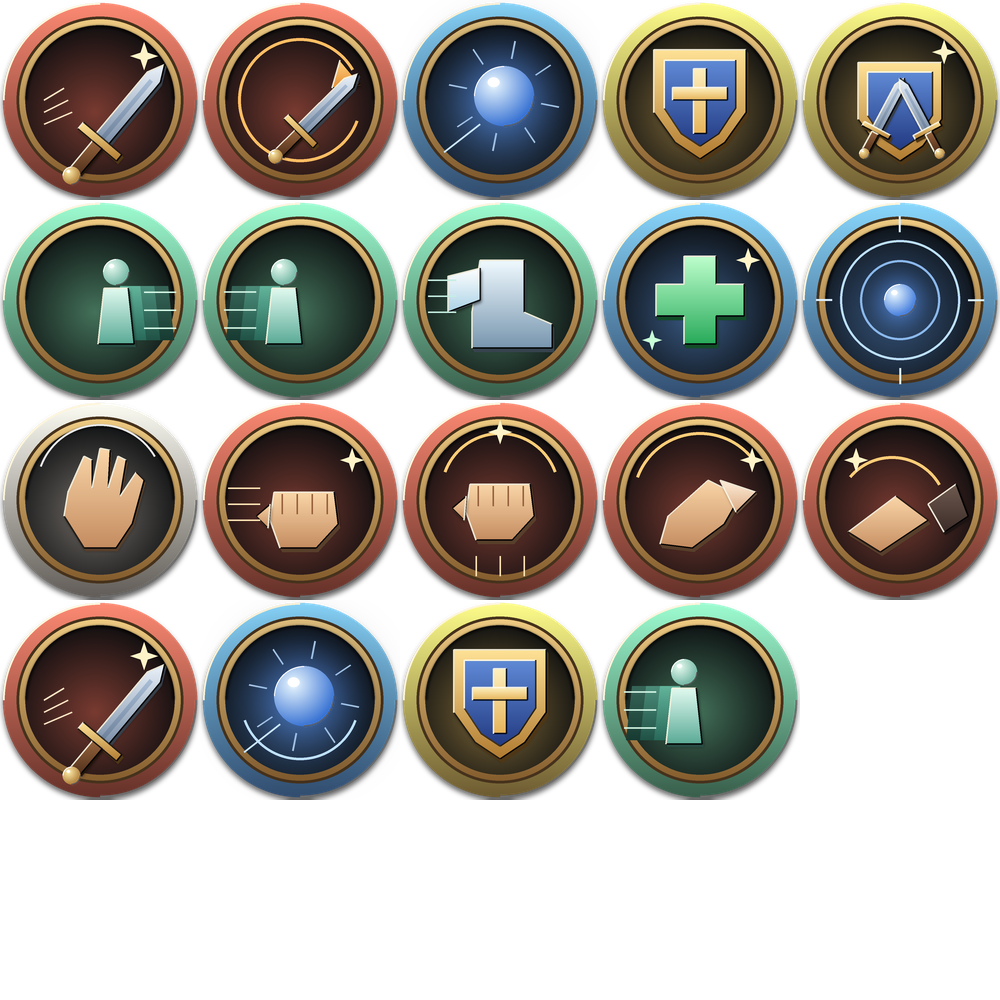
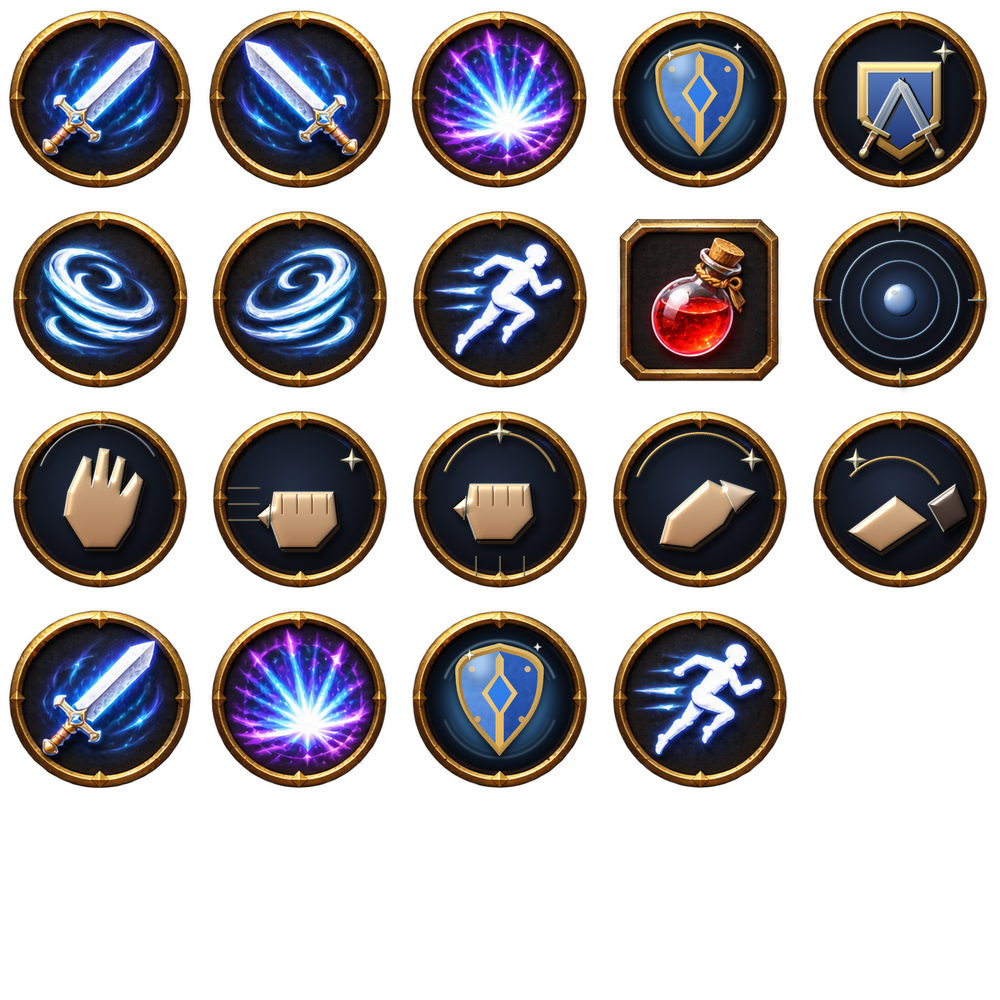
art: 스킬 아이콘 2.5D 원화 스타일로 통일(HUD 원화 재사용 + 높이맵 조명)
Claude-Session: https://claude.ai/code/session_012UBHYV5VTXizN9awrTGnEM

diff --git a/tools/skill-icon-gen.py b/tools/skill-icon-gen.py
@@ -2,7 +2,37 @@
 """마력숲 스킬 아이콘 시트(2.5D) 생성기. 5x5 칸 x 200px = 1000x1000.
 칸 순서는 client meadowArt.skillCell 과 같다. 외부 모델/자산 없이 직접 그린 오너 승인 UI 아이콘."""
 import math, sys
+import numpy as np
+from scipy import ndimage
 from PIL import Image, ImageDraw, ImageFilter, ImageChops
+
+def relief(im, height=20.0, soft=8, spec=.85):
+    """알파 경계에서 안쪽으로 볼록하게 솟는 높이맵 → 법선 → 좌상단 조명(난반사+정반사+림).
+    평면 도형을 돌출된 2.5D 금속/에나멜 조각처럼 보이게 한다."""
+    arr = np.asarray(im).astype(np.float32) / 255
+    a = arr[..., 3]
+    inside = a > .5
+    if not inside.any():
+        return im.copy()
+    d = ndimage.distance_transform_edt(inside)
+    h = 1 - np.exp(-d / max(1, soft))          # 가장자리 둥근 베벨
+    # 같은 층 안의 밝기 차이(그라데이션)도 약간 높이로 반영해 결을 살린다.
+    lum = arr[..., :3].mean(axis=2)
+    h = h * height + ndimage.gaussian_filter(lum, 2) * height * .18
+    h = ndimage.gaussian_filter(h, 1.6)
+    gy, gx = np.gradient(h)
+    n = np.dstack([-gx, -gy, np.ones_like(h)])
+    n /= np.linalg.norm(n, axis=2, keepdims=True)
+    L = np.array([-.55, -.62, .56]); L /= np.linalg.norm(L)
+    V = np.array([0, 0, 1.0])
+    H = (L + V); H /= np.linalg.norm(H)
+    diff = np.clip((n * L).sum(2), 0, 1)
+    specv = np.clip((n * H).sum(2), 0, 1) ** 38 * spec
+    rim = (1 - n[..., 2]) ** 2 * .25
+    ao = 1 - np.clip(ndimage.gaussian_filter((~inside).astype(np.float32), 6) * .55, 0, .5) * inside
+    rgb = arr[..., :3] * (.42 + .78 * diff[..., None]) * ao[..., None] + specv[..., None] + rim[..., None] * .35
+    out = np.dstack([np.clip(rgb, 0, 1), a])
+    return Image.fromarray((out * 255).astype(np.uint8), "RGBA")
 
 S = 800  # 칸당 작업 해상도(최종 200으로 줄임)
 U = S / 100.0
@@ -16,6 +46,9 @@ class Cell:
         self.tint = tint
         self.img = Image.new("RGBA", (S, S), (0, 0, 0, 0))
         self.build_medallion()
+        # [2.5D] 메달리온은 base, 그림(도형)은 별도 층에 그려 높이맵 조명을 입힌다.
+        self.base = self.img
+        self.img = Image.new("RGBA", (S, S), (0, 0, 0, 0))
 
     # ---------- 메달리온 ----------
     def build_medallion(self):
@@ -144,8 +177,16 @@ class Cell:
         d.polygon([(x, y - r), (x + r * .25, y - r * .25), (x + r, y), (x + r * .25, y + r * .25),
                    (x, y + r), (x - r * .25, y + r * .25), (x - r, y), (x - r * .25, y - r * .25)], fill=col)
 
-    def out(self):
-        return self.img.resize((200, 200), Image.LANCZOS)
+    def out(self, glyph_only=False):
+        glyph = relief(self.img, height=26.0, soft=10)
+        # 그림자: 오른쪽 아래로 떨어지는 부드러운 그림자(떠 있는 느낌)
+        a = np.asarray(self.img)[..., 3].astype(np.float32) / 255
+        sh = ndimage.gaussian_filter(ndimage.shift(a, (22, 14), order=0), 12) * .62
+        shadow = np.zeros((S, S, 4), np.uint8); shadow[..., 3] = (sh * 255).clip(0, 255).astype(np.uint8)
+        out = Image.new("RGBA", (S, S), (0, 0, 0, 0)) if glyph_only else relief(self.base, height=14.0, soft=6, spec=.55)
+        out.alpha_composite(Image.fromarray(shadow, "RGBA"))
+        out.alpha_composite(glyph)
+        return out.resize((200, 200), Image.LANCZOS)
 
 STEEL = ((235, 242, 250), (120, 140, 165))
 GOLD = ((255, 226, 150), (176, 122, 48))
@@ -214,7 +255,7 @@ def cross_plus(c):
 # ---------- 아이콘 정의 ----------
 TINT = {"war": (196, 96, 80), "mag": (96, 150, 220), "def": (214, 176, 96), "mob": (110, 184, 146), "etc": (190, 180, 170)}
 
-def icon(i):
+def icon(i, glyph_only=False):
     k = {0: "war", 1: "war", 2: "mag", 3: "def", 4: "def", 5: "mob", 6: "mob", 7: "mob", 8: "mag", 9: "mag", 10: "etc",
          11: "war", 12: "war", 13: "war", 14: "war", 15: "war", 16: "mag", 17: "def", 18: "mob"}[i]
     c = Cell(TINT[k])
@@ -277,12 +318,42 @@ def icon(i):
         c.poly([(64, 52), (78, 42), (84, 58), (72, 66)], (110, 90, 80), (60, 44, 40), depth=3)
         c.arc((46, 56), 28, 220, 330, (255, 205, 120, 255), 3)
         c.spark(28, 30, 6)
-    return c.out()
+    return c.out(glyph_only)
+
+# [2.5D 원화 통일] 화면 HUD와 같은 오너 승인 원화 시트(illustrated-icons.png)의 칸을 그대로 재사용한다.
+# (x, y, 좌우반전) — 원화가 없는 스킬(맨손·응수·집중·인사)은 위 생성기에 높이맵 조명을 입혀 쓴다.
+PAINTED = {0: (0, 800, False), 15: (0, 800, False), 1: (0, 800, True),
+           2: (400, 600, False), 16: (400, 600, False),
+           3: (200, 800, False), 17: (200, 800, False),
+           5: (600, 600, True), 6: (600, 600, False),
+           7: (200, 600, False), 18: (200, 600, False), 8: (0, 400, False)}
+
+def painted(i, src):
+    x, y, flip = PAINTED[i]
+    cell = src.crop((x, y, x + 200, y + 200))
+    return cell.transpose(Image.FLIP_LEFT_RIGHT) if flip else cell
 
 def main(path):
+    import os
+    src = Image.open(os.path.join(os.path.dirname(os.path.abspath(__file__)), "..", "roblox-games", "fantasy-survival", "illustrated-icons.png")).convert("RGBA")
     sheet = Image.new("RGBA", (1000, 1000), (0, 0, 0, 0))
+    # 원화의 금속 원형 테두리만 빌려 빈 틀을 만든다(안쪽은 원화와 같은 어두운 남색 바닥).
+    frame = src.crop((200, 600, 400, 800)).copy()
+    yy, xx = np.mgrid[0:200, 0:200]
+    dist = np.hypot(xx - 100, yy - 100)
+    inner = dist < 71
+    bg = np.asarray(frame).astype(np.float32)
+    glow = np.clip(1 - np.hypot(xx - 92, yy - 86) / 80, 0, 1)[..., None]
+    base = np.array([14, 16, 22, 255], np.float32) + glow * np.array([22, 30, 44, 0], np.float32)
+    bg[inner] = base[inner]
+    frame = Image.fromarray(bg.clip(0, 255).astype(np.uint8), "RGBA")
     for i in range(19):
-        sheet.alpha_composite(icon(i), ((i % 5) * 200, (i // 5) * 200))
+        if i in PAINTED:
+            art = painted(i, src)
+        else:
+            art = frame.copy()
+            art.alpha_composite(icon(i, glyph_only=True))
+        sheet.alpha_composite(art, ((i % 5) * 200, (i // 5) * 200))
     sheet.save(path, optimize=True)
     print("saved", path)
 
